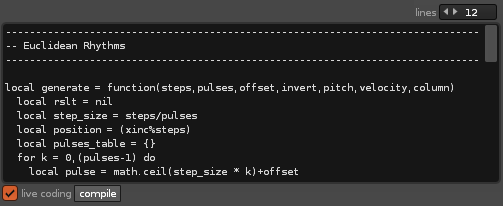
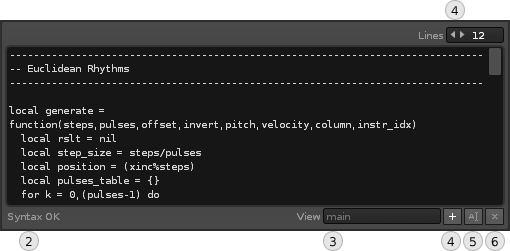
README update

diff --git a/Tools/com.renoise.xStream.xrnx/README.md b/Tools/com.renoise.xStream.xrnx/README.md
@@ -21,7 +21,7 @@ The heart of xStream is lies in it's ability to create and transform pattern/aut
 Here are a few examples to give you a taste of what xStream can be used for:
 
 * **Step Sequencer** - a highly configurable step sequencer with a pattern-FX module for some more unusual effects.  
-* **Voice Recorder** - a demonstration of how the built-in voice manager makes it possible to record live MIDI on the fly, much like how Renoise does it.  
+* **VoiceMgr - Live** - a demonstration of a live MIDI recording workflow, using the voice-manager to control the note duration, polyphony limit and other things.  
 * **Exponential Delay** - create 'bouncing ball' simulations, among other things. The controls correspond to physical aspects such as 'gravity', 'energy' and can create a wide variety of rhythms.      
 * **Euclidean Rhythms** - ever since it was discovered that Euclidean number ratios can generate useful rhythms, the theory of the famous greek mathematician got applied to music as well.      
 * **Granular** - this model generates swervy swarms of chopped-up sounds, using pitch and sample offset commands én masse. Works best on ambient and atmospheric sounds.
@@ -77,13 +77,71 @@ The model toolbar is located just beneath the global toolbar, and provides acces
 9. **Clone** - will prompt you for a location where a copy of the selected model should be saved to
 10. **Revert/refresh** - click this to (re-)load the selected model from disk         
 
+
+### Favorites dialog
+
+The favorites grid provides a visual overview of the models and presets that you want quick access to.
+
+<img src="./manual/favorites_grid.png"> 
+
+Note that the grid is fully MIDI mappable (CMD/CTRL+M) and can be triggered via keyboard shortcuts (Renoise Preferences > Keys, search for 'xstream'). 
+
+#### Editing favorites
+
+Click the 'Edit' checkbox to enter editing mode, with a number of options for each preset: 
+
+* **Model/Bank/Preset** - choose the model and/or preset to store at this position.  
+* **Launch** - specify the launch mode. 
+	* AUTOMATIC (default) - will automatically decide how to apply the favorite. 
+		* If not playing and a selection has been defined, apply to selection
+		* If not playing and no selection exist, apply to track
+		* Otherwise, produce streaming output
+	* STREAMING - force favorite to use streaming mode (online)
+	* TRACK - apply to track (offline)
+	* SELECTION - apply to selection (offline)
+
+
+
 ### Code Editor 
+
+The code editor is where it all comes together. By default, the editor will show the _main loop_ of the currently active model.  
 
 <img src="./manual/code_editor.png"> 
 
-1. **#Lines** - Adjust how many lines the code editor should use	
-* **Live coding** (checkbox) - Enable this option to compile the code as you type   
-* **Compile** - Press this button to compile the code (not necessary when live coding is enabled)
+
+1. **#Lines** - Adjust how many lines the editor should use  
+* **Running state** - Provides feedback on the state of the code. Errors are displayed with a warning sign, which you can click to read more details. Hopefully, it will read 'Syntax OK' :-)    
+* **View Select** - This popup contains all aspects of the model - the main loop, and (if defined) userdata and event definitions. 
+* **Add aspect** - Add a new aspect to the model (userdata or event handler). Click this to bring up the Callbacks & Userdata dialog
+* **Rename aspect** - Click to rename the aspect. Userdata is currently the only type of aspect which can be renamed.   
+* **Delete aspect** - Applies to userdata and events only.   
+
+#### Events & Userdata dialog
+
+Clicking the '+' button in the code editor will bring up the Events & Userdata dialog. Here you can add predefined data or set up event handlers for your model:
+
+<img src="./manual/callback_dialog.png">
+
+##### Event dialog
+
+This page contains every type of event which is accessible to you. 
+
+<img src="./manual/callback_dialog_events.png">  
+_Event dialog showing the model events selector_ 
+
+
+* **Arguments** - The list will contain all defined arguments for the currently loaded model. 
+* **Model events** - Lists all events which are related to the model (MIDI, voice-manager)
+* **Renoise events** - Lists all recognized Renoise API events    
+
+##### Userdata dialog
+
+<img src="./manual/callback_dialog_userdata.png">
+
+This page simply asks you to specify a name for your userdata. The name has to be unique (not already in use) and a valid Lua identifier (normal latin characters, and not beginning with a number). You can choose a type too, such as `number` or `string`. 
+
+When you press 'Done', a small code template is generated, according to the type of value you chose. Note that you can change this type at any time - the template is only meant as a starting point.    
+    
 
 ### Preset/bank
 
@@ -92,11 +150,11 @@ The model toolbar is located just beneath the global toolbar, and provides acces
 <img src="./manual/preset_bank.png"> 
 
 1. **Bank select** - as a minimum, any model always contain a 'default' (internal) preset bank
-2. **Remove bank** - click to remove the bank (note that you can't remove the default bank)
-3. **Create bank** - click to create a new bank (a dialog will prompt you for the name)
-4. **Rename bank** - click to rename the bank (note that you can't rename the default bank)
-5. **Import/Merge** - click to import a bank into the currently selected bank
-6. **Export bank** - click to export the selected bank to a file 
+* **Remove bank** - click to remove the bank (note that you can't remove the default bank)
+* **Create bank** - click to create a new bank (a dialog will prompt you for the name)
+* **Rename bank** - click to rename the bank (note that you can't rename the default bank)
+* **Import/Merge** - click to import a bank into the currently selected bank
+* **Export bank** - click to export the selected bank to a file 
 
 #### Presets
 
@@ -113,15 +171,18 @@ The model toolbar is located just beneath the global toolbar, and provides acces
 
 In addition to the presets (see above), you can click the arrow in the corner to show the preset list. This list will allow you to **schedule** a preset by clicking the small 'play' button, or **rearrange** items by clicking the up/down arrows. 
 
+<img src="./manual/preset_list.png"> 
+
+
 ### Arguments
 
 <img src="./manual/arguments.png"> 
 
-1. **Add argument** - Click to add a new argument to the selected model. Note that presets will ignore the argument until updated
-2. **Move up** - Push the selected argument up in the list
-3. **Move down** - Push the selected argument down in the list
-4. **Edit** - Click to open the Argument Editor  
-5. **Random** - Click to apply a random value to all unlocked arguments
+1. **Add argument** - Click to add a new argument to the selected model. 
+* **Move up** - Push the selected argument up in the list
+* **Move down** - Push the selected argument down in the list
+* **Edit** - Click to open the Argument Editor  
+* **Random** - Click to apply a random value to all unlocked arguments
 
 #### Argument-list
 
@@ -130,11 +191,20 @@ The argument-list is visible when you have expanded the arguments panel using th
 <img src="./manual/argument_list.png"> 
 
 1. **Lock** - Click the small checkbox to lock the argument. This will prevent it from changing as you apply random values to arguments, load presets or when the argument is set to poll/bind values from Renoise 
-2. **Name** - The name that has been assigned to the argument. This is also the name used for identifying the argument within the code editor. Click the name to select the argument.
-3. **Control** - Depending on the type of value, a controls can be used to interact with, change the value (some of these controls can be mapped to a MIDI controller). 
-4. **Poll/Bind** - The small 'circle' next to the control indicates that the argument has been configured to poll or bind values in the Renoise API.   
+* **Name** - The name that has been assigned to the argument. This is also the name used for identifying the argument within the code editor. Click the name to select the argument.
+* **Control** - Depending on the type of value, a controls can be used to interact with, change the value (most of these controls can be mapped to a MIDI controller). 
+* **Poll/Bind** - The small 'circle' next to the control indicates that the argument has been configured to poll or bind values in the Renoise API.
+* **Link** - (not shown) Clicking the small chain icon between the name and control to establish a link between similarly-named arguments across tabs. Once linked, changing the argument value will propagate the change to all other unlocked arguments bearing the same name.   
+   
 
+##### Organizing arguments in tabs  
 
+When your model has a lot of arguments, it can be practical to organize things in tabs. To do this, xStream supports the use of dot.syntax. Simply prepend the name of the tab to your argument like this: `args.my_tab_name.my_arg_name` - and the tab will be created automatically. 
+
+<img src="./manual/argument_tabbed.png">  
+_Example of two tabs_
+
+Note that dot syntax is limited to one dot in a argument name. Oh, and each part (tab and argument) both need to be valid Lua identifiers - so, no special characters or names starting with numbers.
 
 ### Argument editor
 
@@ -142,26 +212,25 @@ Arguments can be edited by pressing the 'Edit' button in the Arguments panel. Ea
 
 <img src="./manual/argument_editor.png"> 
 
+
 1. **name** - Provide a name for the argument. The name you assign is used as an identifier in the output method - for example, `args.my_argument_name`   
 * **description** - Will be used as a tooltip in the user interface
 * **poll/bind** - Gives you the ability to poll or bind to values in the Renoise API. Using 'poll', you can specify any value - such as `rns.selected_instrument_index` - while 'bind' expects an observable value - such as `rns.selected_instrument_index_observable`. 
-* **re-buffer** - When enabled, the buffer is recalculated each time the argument value has changed. This ensures that changes are written to the pattern as fast as possible. Default value is 'enabled' 
+* **re-buffer** - When enabled, the output buffer is recalculated each time the argument value has changed. This ensures that changes are written to the pattern as fast as possible. Default is 'on'.
 * **value-type** - Define the basic value type: boolean, number or string
-* **display_as** - How the value is displayed to the user (slider, popup, checkbox, etc.). There are many different to choose from - which ones are valid depend on the value types you have selected (this is checked as you make a choice)  
+* **display_as** - How the value is displayed to the user (validated when you hit 'Apply')  
 * **min** - Minimum value (applies to numeric values only)
 * **max** - Maximum value (applies to numeric values only)
 * **zero-based** - Convert to zero-based values on-the-fly (applies to numeric value displayed as hex/integer)
 * **items** (not shown) - Which items to display - applies to numeric value which are displayed as popup/chooser/switch
+* **load-bang** (not shown) - Enable this feature to trigger [event handlers](#event-dialog) on startup. Default is 'on'.
 
-
-
-### Favorites dialog
-
-TODO
 
 ### Options dialog       
 
 #### General Options
+
+<img src="./manual/options_general.png"> 
 
 **Autostart tool:** enable this option to automatically launch xStream when Renoise starts  
 
@@ -172,6 +241,8 @@ TODO
 **Statistics:** Provides some handy statistics about the xStream tool, including RAM usage and current streaming position (if any) 
 
 #### Streaming Options
+
+<img src="./manual/options_streaming.png"> 
 
 **Suspend streaming while hidden:** if you are not planning to use the streaming feature while the main GUI is hidden, enable this checkbox. Triggering favorites will still work, but only while playback is stopped (offline mode, apply to track/selection). 
 
@@ -192,9 +263,20 @@ TODO
 
 **Writeahead factor:** this value will determine how far ahead the streaming will write. Lower values will cause more lines to be written, while a higher value will decrease the number of lines. The _actual_ number of lines depends on the current BPM/LPB combination (the General Options will display this value).     
 
+#### MIDI Options
+
+<img src="./manual/options_midi.png"> 
+
+Here you can select which MIDI input and output devices to use, configure the internal MIDI routing and finetune how MIDI messages are interpreted by xStream.
+
+Once you have enabled some devices, all your models will be able to respond to incoming [MIDI events](#event-dialog) and create messages of their own. 
+
+
 #### Output Options
 
-Note that each model can override these values - they are only provided as sensible defaults. 
+<img src="./manual/options_output.png"> 
+
+These settings decide how output is written to the pattern editor/automation lane. Note that each model can override these values - they are only provided as sensible defaults. 
 
 **include_hidden:** by default, xStream will not reveal note-columns if they don't receive any data. By enabling this feature, you can easily end up create fully expanded 12-note column / 8 effect-columns tracks, so use with care!
 
@@ -223,12 +305,12 @@ We can write pattern data by defining a method as simple as this one:
 
 Pretty self-explanatory - `xline` refers to the current line in the track, and note_columns[1] is the first note column. The note is defined as a string, exactly as it shows in the pattern editor: `C-4`.
  
-But to make things more interesting, we can define an _argument_ and use it like this:
+But to make things more interesting, we can define a _numeric argument_ (hit the '+' button in the [arguments panel](#arguments)) and use it like this:
 
 	-- produce notes which match the value of our argument
 	xline.note_columns[1].note_value = args.my_value
 
-We switched from `note_string` to `note_value`. Since we are setting the value of a note, `my_value` is expected to be a number between 0-121 (see the [Lua reference](## xStream Lua Reference) for more details)
+We switched from `note_string` to `note_value`. Since we are setting the value of a note, `my_value` is expected to be a number between 0-121 (see the [Lua reference](#xstream-lua-reference) for more details)
 
 ### Producing automation data
 
@@ -237,6 +319,11 @@ TODO
 ## xStream Lua Reference
 
 xStream is using a subset of the Renoise Lua API. If you are not familiar with Lua or the Renoise API, it's recommended to visit the [Renoise scripting page](https://github.com/renoise/xrnx). Also, xStream comes with many examples, which should make learning easier.   
+
+Code is compiled as you enter it (a.k.a. live coding), and will give you feedback on potential errors as it's running. Also, the code is prevented from executing potentially harmful instructions (such as accessing the file system).   
+
+It's recommended to open the scripting console for more detailed feedback and the ability to print debug information (see link above for instructions on how to enable the scripting console).  
+ 
 
 ### Properties 
 
@@ -266,12 +353,12 @@ xStream is using a subset of the Renoise Lua API. If you are not familiar with L
 `xpos.lines_travelled (number)` -> lines travelled since output started   
 `xstream (xStream)` -> access to the xStream instance  
 `xbuffer (xStreamBuffer)` -> access to the stream buffer (shorthand for xstream.buffer)  
-`xvoicemgr (xVoiceManager)` -> access the voice-manager (shorthand for xstream.voicemgr)
-`xvoices (table<xMidiMessage>)` -> access the active voices (shorthand for xstream.voicemgr.voices)
+`xvoicemgr (xVoiceManager)` -> access the voice-manager (shorthand for xstream.voicemgr)  
+`xvoices (table<xMidiMessage>)` -> access the active voices (shorthand for xstream.voicemgr.voices)  
 `xplaypos (xPlayPos)` -> access the 'precise' playback position (shorthand for xstream.stream.playpos)   
 `xwritepos (xSongPos)` -> track the stream progression (shorthand for xstream.stream.writepos)   
 `args (table, ObservableXXX)` -> access to model arguments  
-`data (table)` -> optional user-data, access via "data.my_value"  
+`data (table)` -> optional user-data, access via 'data.my_value'  
 `clear_undefined (boolean)` -> how to treat empty lines (see Options dialog for more details)  
 `expand_columns (boolean)` -> whether to automatically show columns as data is written  
 `include_hidden (boolean)` -> whether to include hidden columns when reading & writing  
